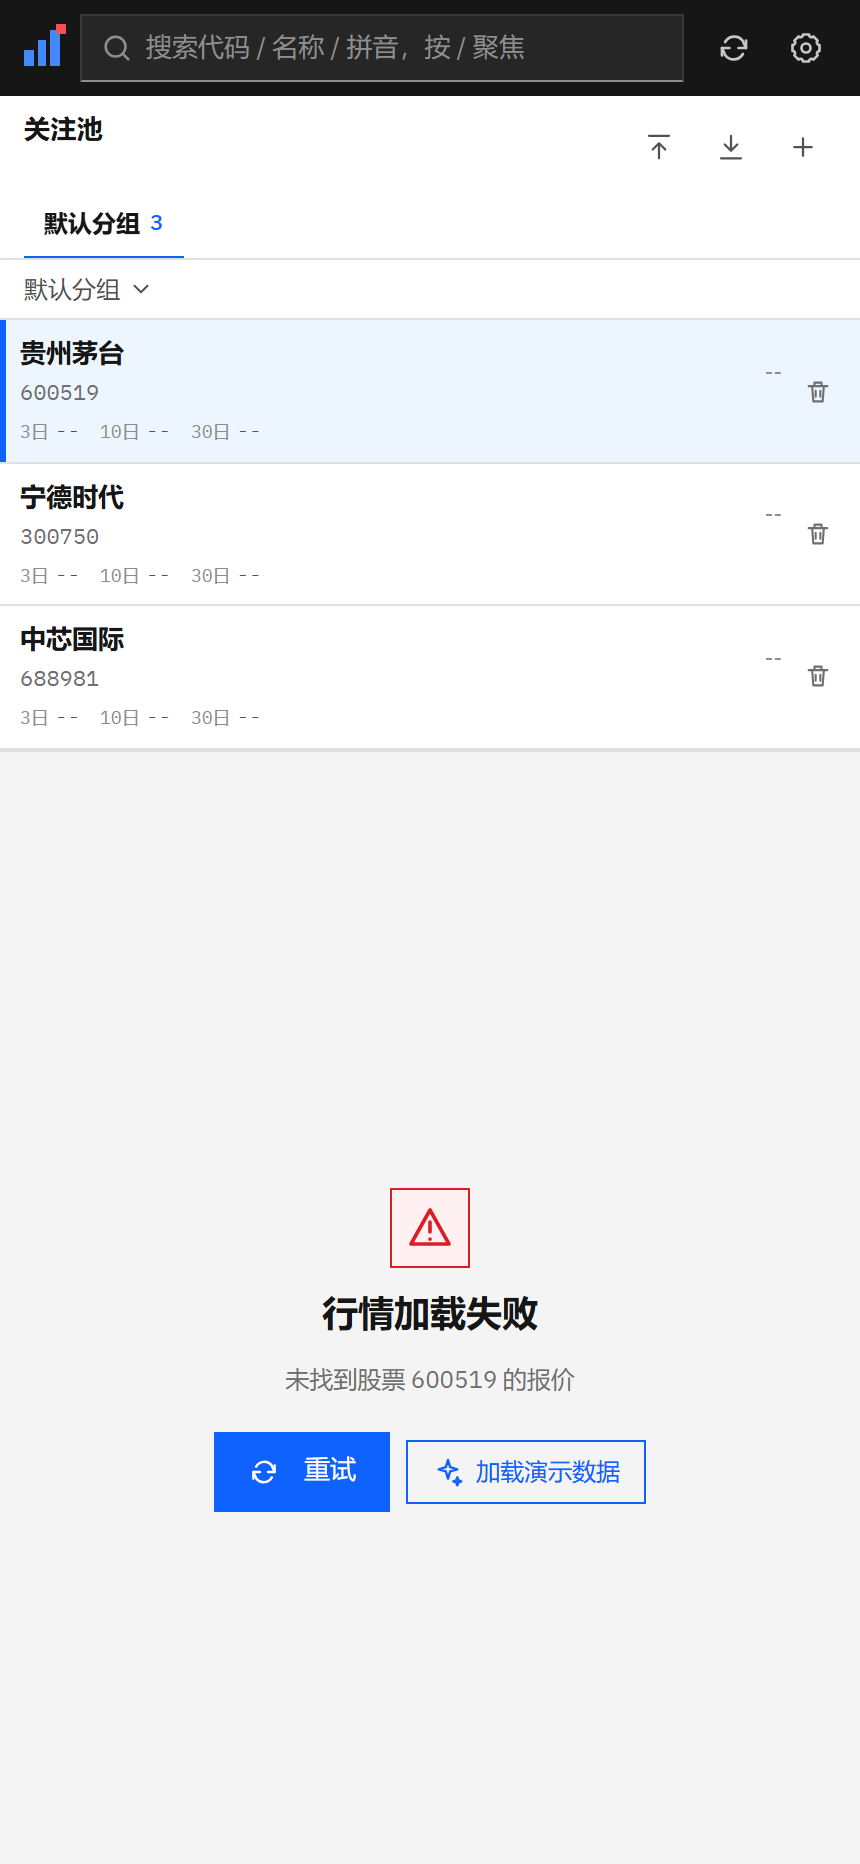
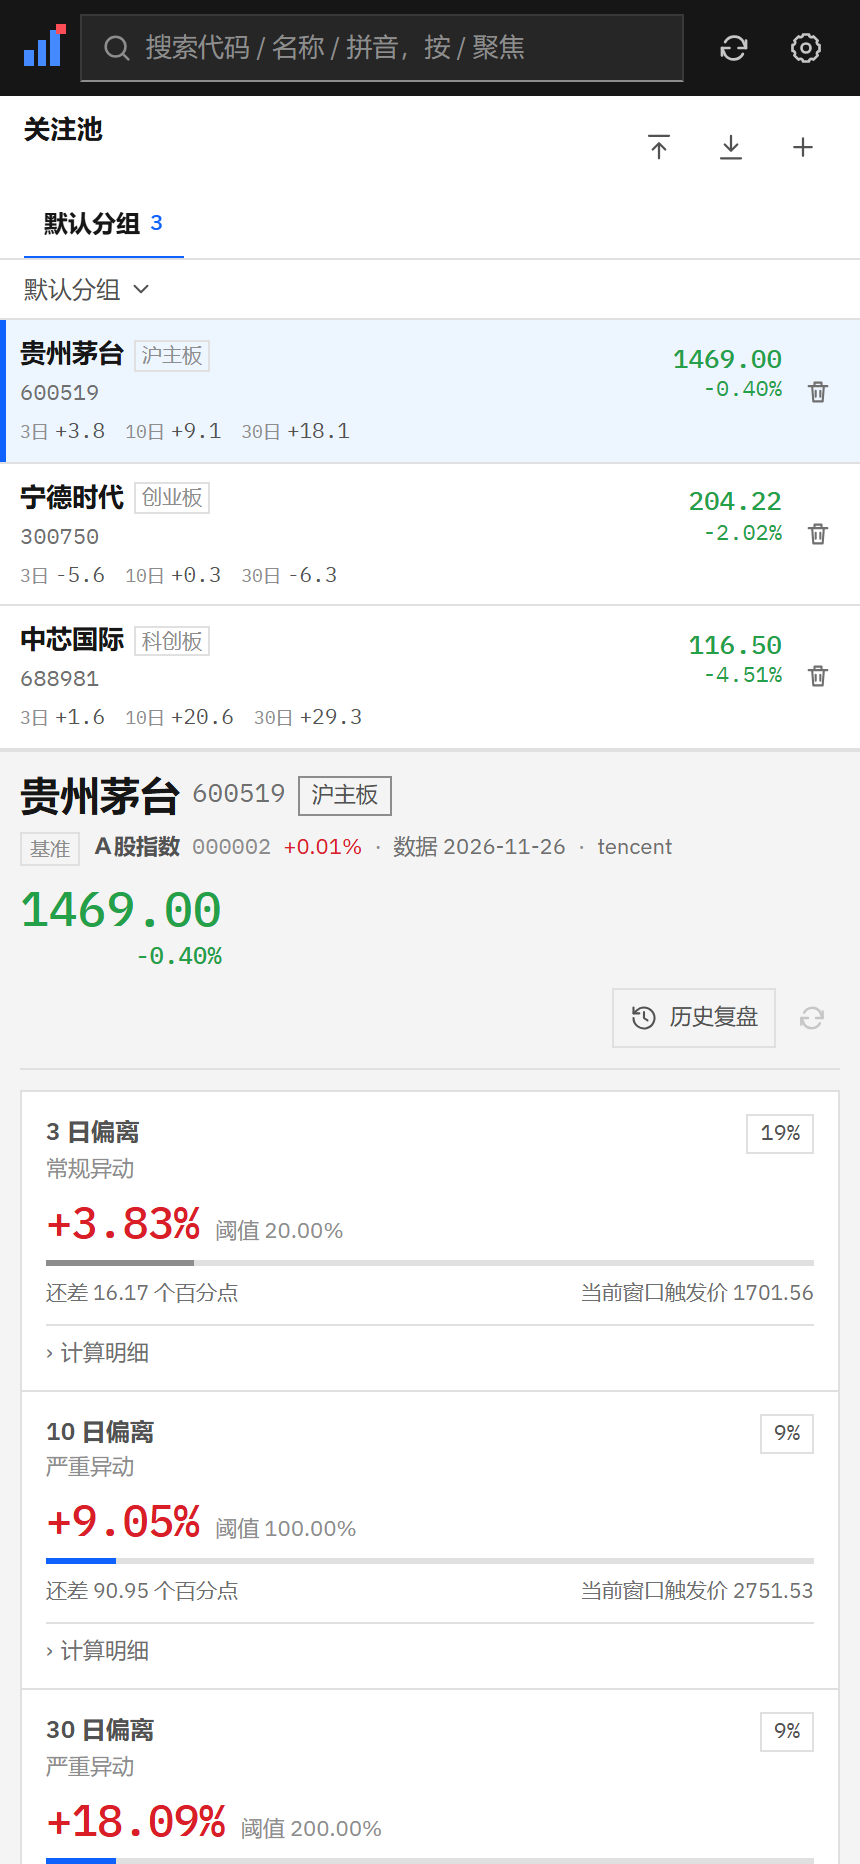
docs: 补充网页版验收记录（线上实测与接口差异）

diff --git a/docs/ACCEPTANCE.md b/docs/ACCEPTANCE.md
@@ -1,5 +1,50 @@
 # 验收记录
 
+## 网页版 / PWA（2026-11-27）
+
+同一套引擎与渲染层，额外构建出可在 iPhone / Android / 桌面浏览器使用的网页版。
+
+- 在线地址：<https://fushon2000.github.io/ashare-yidong-radar/>
+- 部署方式：本地构建 `dist-web` → 推送 `gh-pages` 分支 → GitHub Pages 自动发布
+- CI 配置暂存于 `docs/deploy/pages.yml`（当前 PAT 缺 `workflow` 权限，无法提交 `.github/workflows/`，故改用分支部署）
+
+### 实现
+
+- `src/web/` 提供入口、浏览器版 `window.api`、手机布局与 PWA 资源，渲染层与引擎零改动
+- `MarketDataProvider` 抽出 `SnapshotCache` 接口并支持自定义源顺序，桌面用文件缓存 + 东财优先，网页用 localStorage + 腾讯优先
+
+### 浏览器端接口实测
+
+| 接口 | 结论 |
+|---|---|
+| 东方财富个股实时报价 | ❌ 价格字段被屏蔽（`f2` 恒为 0，仅昨收正常） |
+| 东方财富指数报价 | ❌ 偶发跨域失败 |
+| 东方财富日线 | ✅ 可用 |
+| 腾讯报价 / 日线 | ✅ 可用（CORS `*`、GBK 可解码、支持批量） |
+| 东方财富搜索 | ❌ 跨域被拦 |
+| 腾讯 smartbox 搜索 | ✅ 用 `<script charset="gbk">` 读 `v_hint` 可行 |
+
+### 验证
+
+- `tsc --noEmit` 通过；`vitest run` 35 项通过（+7 项联网用例默认跳过）
+- 网页版构建：JS 1.39MB（gzip 468KB）+ CSS 38KB + 字体 76KB
+- iPhone 15 Pro Max 视口（430×932）无头 Edge 实测：**页面无横向溢出、控制台零报错**
+- 线上地址实测：首页 / manifest / sw.js / 图标全部 HTTP 200，`Service Worker` 可用
+- 线上真实行情：贵州茅台 1469.00 −0.40%，基准 000002 +0.01%，3/10/30 日偏离 +3.83% / +9.05% / +18.09%，数据源标记 `tencent`
+- 截图：`docs/screenshots/web-live-iphone.png`、`web-live-outlook.png`、`web-iphone-*.png`
+
+> 与桌面版数值的极小幅差异（约 0.02pp）来自腾讯日线用收盘价反推涨跌幅，
+> 桌面版用东财返回的两位小数涨跌幅字段；口径一致，差异属取整范围。
+
+### 网页版已知差异
+
+- 无托盘常驻，页面关闭后不再计算与提醒
+- 通知依赖页面打开 + 用户授权（iOS 首次点击页面时申请）
+- 触屏无法拖动排序关注池
+- 「关闭窗口最小化到托盘」设置项在网页版无效
+
+---
+
 ## v1.2.0 交付（2026-11-27）
 
 版本 1.2.0 = v1.1 的口径变更 + v1.2 的界面重做，并**首次完成打包与真机 GUI 冒烟**。
